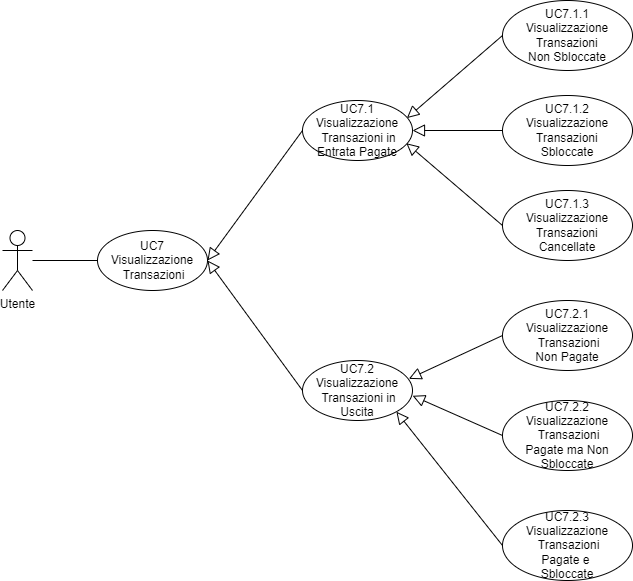
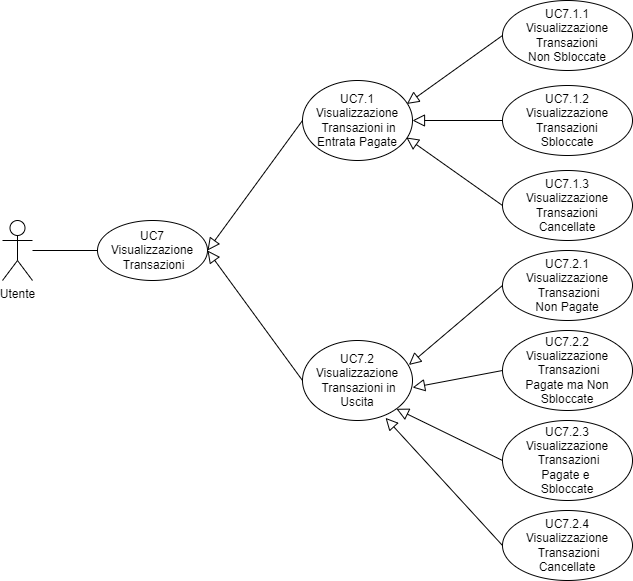
fix tabelle

diff --git a/src/analisi_dei_requisiti/sezioni/requisiti.tex b/src/analisi_dei_requisiti/sezioni/requisiti.tex
@@ -55,6 +55,22 @@ Il gruppo \groupName{} per classificare e assegnare i requisiti del capitolato h
         R2F8.2 & Obbligatorio & Il proprietario dell'ordine deve poter visualizzare le transazioni in uscita. & UC7.2 \\
         R1F8.2.1 & Desiderabile & Il proprietario dell'ordine deve poter visualizzare le transazioni in uscita non pagate. & UC7.2.1 \\
         R2F8.2.2 & Desiderabile & Il proprietario dell'ordine deve poter visualizzare le transazioni in uscita pagate ma non sbloccate. & UC7.2.2 \\
+    \end{tabular}
+\end{table}
+\begin{center}
+    \textit{\small Continua nella pagina successiva}
+\end{center} 
+\begin{table}[H]
+    \centering
+    \renewcommand{\arraystretch}{1.8}
+    \rowcolors{2}{green!100!black!40}{green!100!black!30}
+    \begin{tabular}{c | c | p{6cm} | c}
+        \rowcolor[HTML]{125E28} 
+        \multicolumn{1}{c}{\color[HTML]{FFFFFF} \textbf{Codice}} & 
+		\multicolumn{1}{c}{\color[HTML]{FFFFFF} \textbf{Classificazione}} & 
+		\multicolumn{1}{c}{\color[HTML]{FFFFFF} \textbf{Descrizione}} & 
+		\multicolumn{1}{c}{\color[HTML]{FFFFFF} \textbf{Fonti}} \\
+        \hline
         R1F8.2.3 & Desiderabile & Il proprietario dell'ordine deve poter visualizzare le transazioni in uscita pagate e sbloccate. & UC7.2.3 \\
         R1F8.2.4 & Desiderabile & Il proprietario dell'ordine deve poter visualizzare le transazioni in uscita cancellate. & UC7.2.4 \\
         R2F9 & Desiderabile & Si deve convertire l'ammontare depositato sullo smart contract in stable coin. & Capitolato \\
@@ -100,22 +116,6 @@ Il gruppo \groupName{} per classificare e assegnare i requisiti del capitolato h
         R1V3 & Obbligatorio & L'applicazione per l'interazione con la piattaforma dev'essere sviluppata attraverso l'uso di tecnologie web. & Capitolato \\ 
         R2V4 & Desiderabile & La blockchain di riferimento scelta sarà Fantom. & Verbale Esterno 10.11.21 \\
         R3V5 & Opzionale & L'applicativo deve essere utilizzabile anche da dispositivi mobili, come smartphone e tablet. & Capitolato \\                       
-    \end{tabular}
-\end{table}
-\begin{center}
-    \textit{\small Continua nella pagina successiva}
-\end{center}
-\begin{table}[H]
-    \centering
-    \renewcommand{\arraystretch}{1.8}
-    \rowcolors{2}{green!100!black!40}{green!100!black!30}
-    \begin{tabular}{c | c | p{6cm} | c}
-        \rowcolor[HTML]{125E28} 
-        \multicolumn{1}{c}{\color[HTML]{FFFFFF} \textbf{Codice}} & 
-		\multicolumn{1}{c}{\color[HTML]{FFFFFF} \textbf{Classificazione}} & 
-		\multicolumn{1}{c}{\color[HTML]{FFFFFF} \textbf{Descrizione}} & 
-		\multicolumn{1}{c}{\color[HTML]{FFFFFF} \textbf{Fonti}} \\
-        \hline
         R1V6 & Obbligatorio & Gli smart contract verranno sviluppati in Solidity. & Capitolato \\
         R1V7 & Obbligatorio & Il front-end dell'applicazione verrà sviluppato in React. & Capitolato \\ 
     \end{tabular}

diff --git a/src/analisi_dei_requisiti/sezioni/casi_uso.tex b/src/analisi_dei_requisiti/sezioni/casi_uso.tex
@@ -398,7 +398,7 @@ L'utente generico ha poi due specializzazioni possibili: l'utente proprietario d
 \subsubsection{UC7.2 - Visualizza Transazioni In Uscita}
 
 \begin{itemize}
-    \item Attore primario: utente generico;
+    \item Attore primario: utente proprietario dell'ordine;
     \item Precondizioni: l'utente ha selezionato le transazioni in uscita;
     \item Postcondizioni: l'utente ha visualizzato le transazioni in uscita;
     \item Scenario principale: l'utente sceglie le transazioni in uscita per essere visualizzate;
@@ -413,7 +413,7 @@ L'utente generico ha poi due specializzazioni possibili: l'utente proprietario d
 \subsubsection{UC7.2.1 - Visualizza Transazioni Non Pagate}
 
 \begin{itemize}
-    \item Attore primario: utente generico;
+    \item Attore primario: utente proprietario dell'ordine;
     \item Precondizioni: l'utente ha selezionato visualizza transazioni non pagate;
     \item Postcondizioni: l'utente ha visualizzato la lista di transazioni non pagate;
     \item Scenario principale: l'utente visualizza la lista di transazioni non pagate.
@@ -422,7 +422,7 @@ L'utente generico ha poi due specializzazioni possibili: l'utente proprietario d
 \subsubsection{UC7.2.2 - Visualizza Transazioni Pagate Ma Non Sbloccate}
 
 \begin{itemize}
-    \item Attore primario: utente generico;
+    \item Attore primario: utente proprietario dell'ordine;
     \item Precondizioni: l'utente ha selezionato visualizza transazioni pagate ma non sbloccate;
     \item Postcondizioni: l'utente ha visualizzato la lista di transazioni pagate pagate ma non sbloccate;
     \item Scenario principale: l'utente visualizza la lista di transazioni pagate pagate ma non sbloccate.
@@ -431,15 +431,22 @@ L'utente generico ha poi due specializzazioni possibili: l'utente proprietario d
 \subsubsection{UC7.2.3 - Visualizza Transazioni Pagate e Sbloccate}
 
 \begin{itemize}
-    \item Attore primario: utente generico;
+    \item Attore primario: utente proprietario dell'ordine;
     \item Precondizioni: l'utente ha selezionato visualizza transazioni pagate e sbloccate;
     \item Postcondizioni: l'utente ha visualizzato la lista di transazioni pagate e sbloccate;
     \item Scenario principale: l'utente visualizza la lista di transazioni pagate e sbloccate.
 \end{itemize}
 
-\subsection{UC8 - Rimborso}
+\subsubsection{UC7.2.4 - Visualizza Transazioni Cancellate}
 
-%serve diagramma?
+\begin{itemize}
+    \item Attore primario: utente proprietario dell'ordine;
+    \item Precondizioni: l'utente ha selezionato visualizza transazioni cancellate;
+    \item Postcondizioni: l'utente ha visualizzato la lista di transazioni cancellate;
+    \item Scenario principale: l'utente visualizza la lista di transazioni cancellate.
+\end{itemize}
+
+\subsection{UC8 - Rimborso}
 
 \begin{itemize}
     \item Attore primario: utente proprietario dell'ordine, utente venditore;
